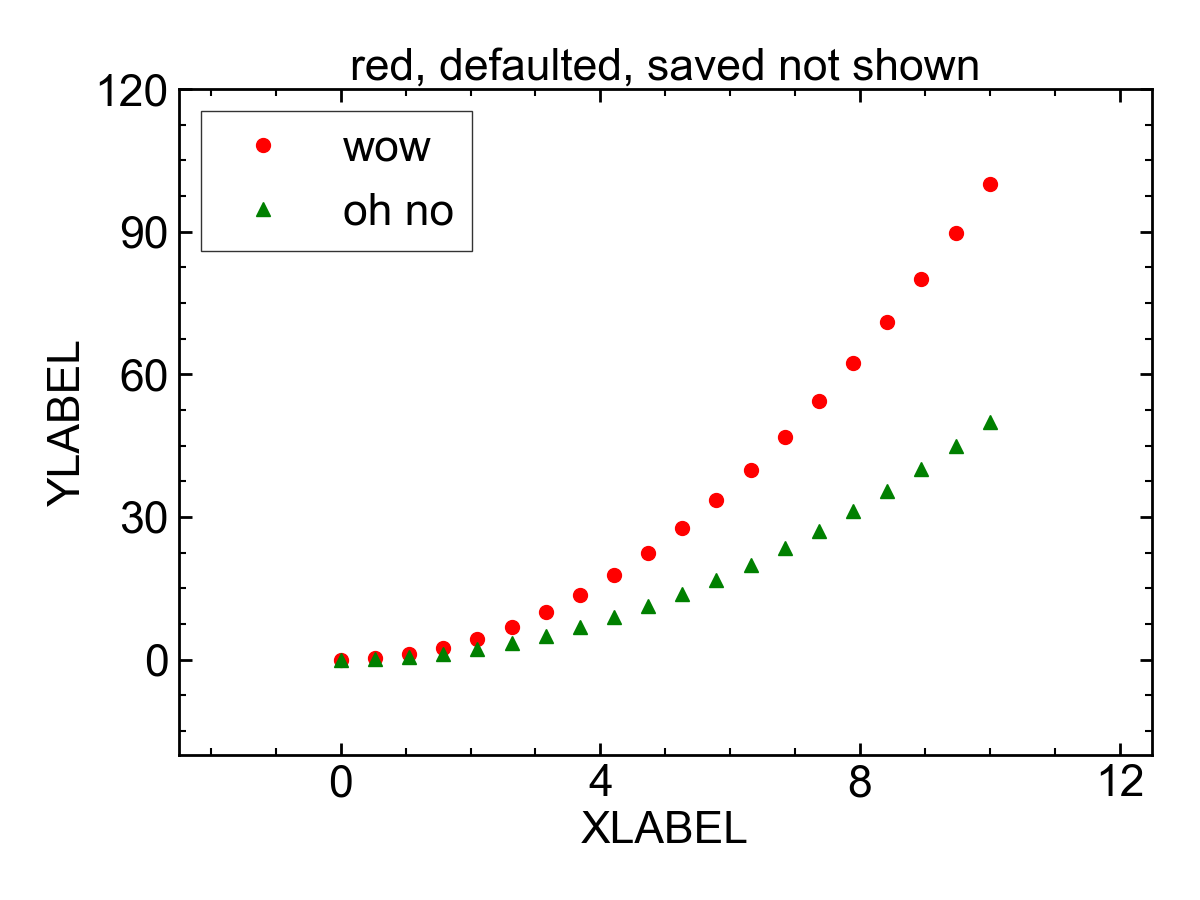
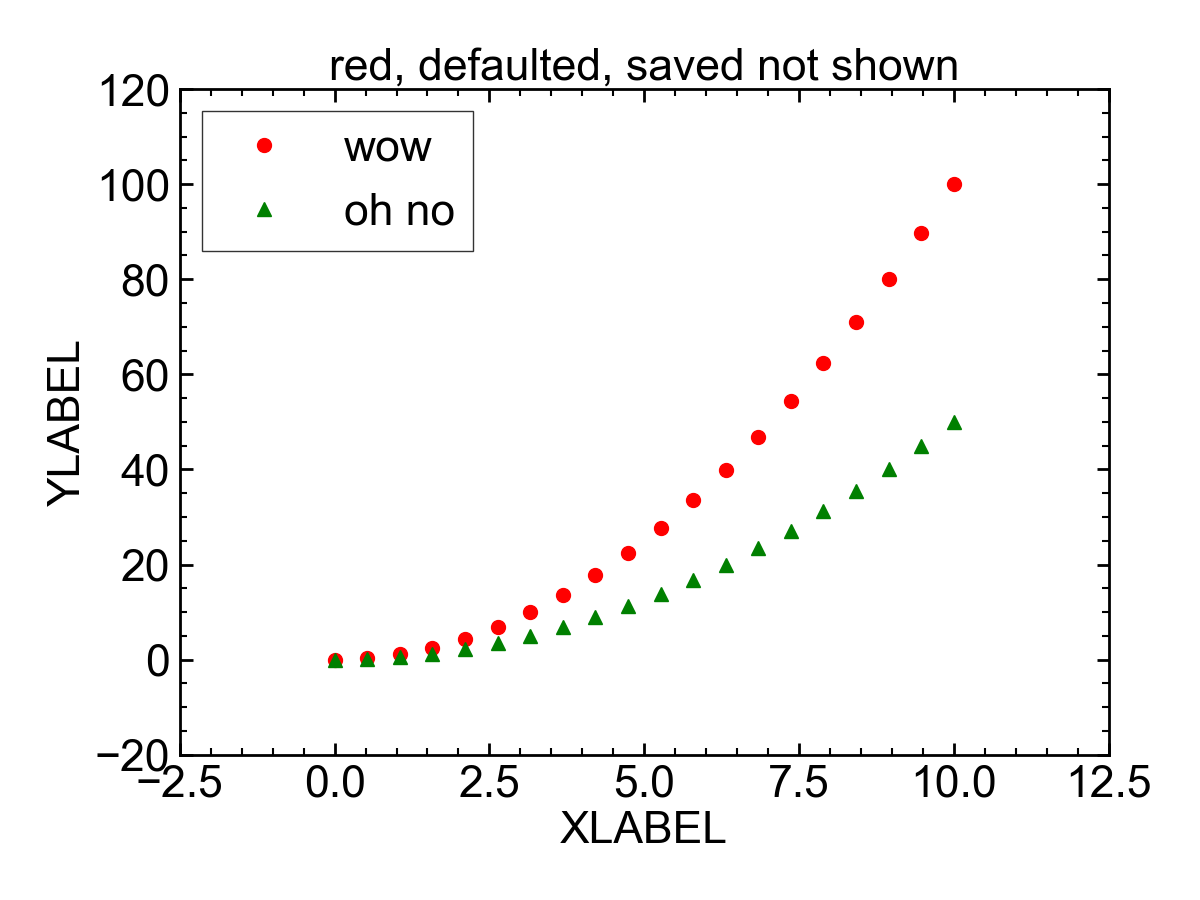
old(?) rule: ends of axes must have labels

diff --git a/niceplot.py b/niceplot.py
@@ -328,10 +328,10 @@ def plot( xs, ys, xe="", ye="", markers="", labels="", filename="", **kwargs ):
         minorticks=kwargs.get("minorticks",True)
         if minorticks:
             ax.minorticks_on()
-        if kwargs.get("xscale") != "log":
-            ax.xaxis.set_major_locator(matplotlib.ticker.MaxNLocator(nbins=5))
-        if kwargs.get("yscale") != "log":
-            ax.yaxis.set_major_locator(matplotlib.ticker.MaxNLocator(nbins=5))
+        #if kwargs.get("xscale") != "log":
+        #    ax.xaxis.set_major_locator(matplotlib.ticker.MaxNLocator(nbins=5))
+        #if kwargs.get("yscale") != "log":
+        #    ax.yaxis.set_major_locator(matplotlib.ticker.MaxNLocator(nbins=5))
 
         if "nxticks" in kwargs.keys():
             ax.xaxis.set_major_locator(
